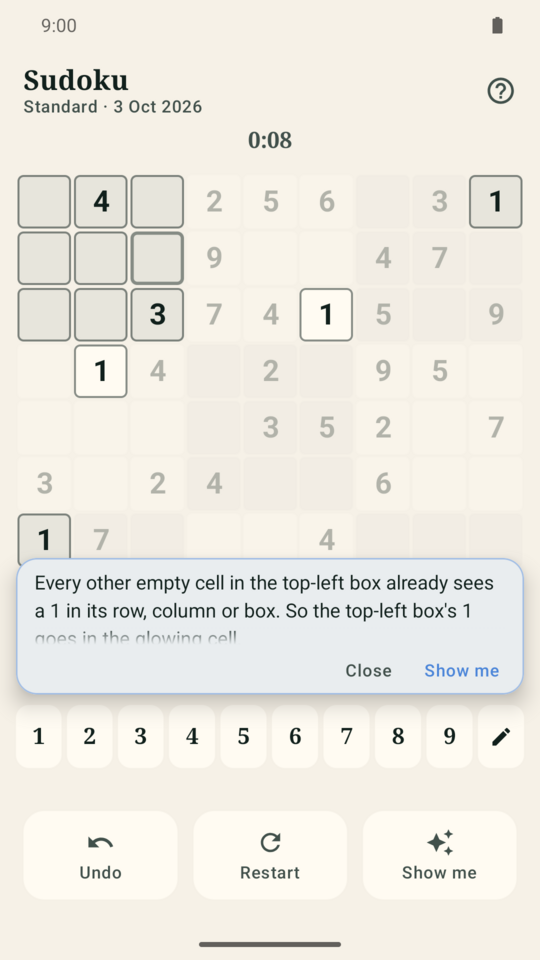
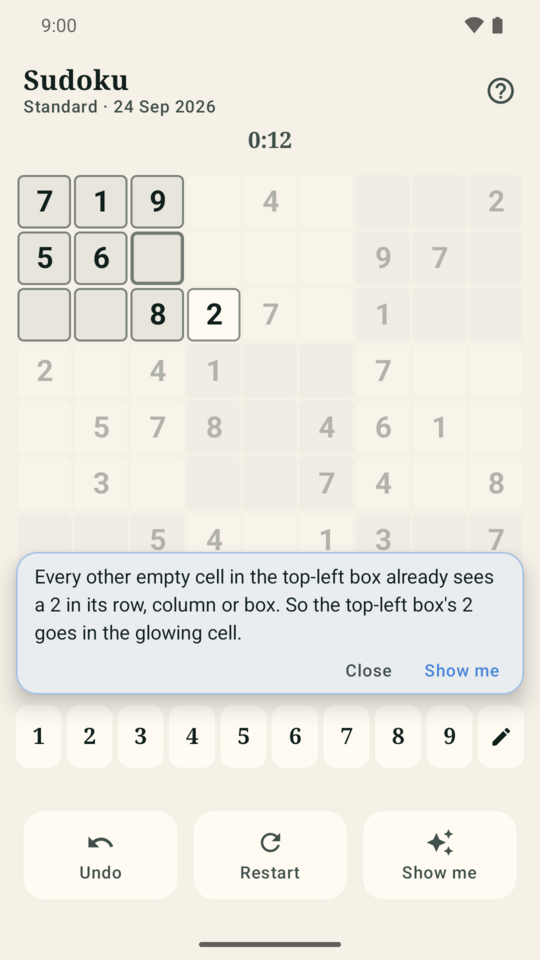
Screenshots: pin 24 Sep (hint popover fits) and refresh images

diff --git a/docs/play/LISTING.md b/docs/play/LISTING.md
@@ -57,7 +57,7 @@ Hand-built puzzle generators, proven boards and a calm, uncluttered design. Come
 | Phone screenshots | `screenshots/1-home.png` ... `5-snap.png` | 1080x1920, 9:16 (the first set was 2:1, which Play also accepted). The emulator's own 1080x2400 is over 2:1 |
 | Tablet screenshots (7-inch and 10-inch) | the same five | Both slots are marked required in the Console, so the phone shots are reused. The app is portrait-only, so a tablet shows the phone layout |
 
-The screenshots are emulator captures made by `tools/screenshots/capture.sh` (`wm size 1080x1920`, a clean install, the date pinned to 3 Oct 2026, demo-mode
+The screenshots are emulator captures made by `tools/screenshots/capture.sh` (`wm size 1080x1920`, a clean install, the date pinned to 24 Sep 2026, demo-mode
 status bar: 9:00, no notifications). Run the **Update screenshots** workflow (Actions, manual): it captures, uploads to the listing with `tools/screenshots/upload-play.py` (the service account needs "Manage store presence"; Google reviews the change and the live listing keeps the old images meanwhile) and opens a PR for the `docs/` images, which makes them part of the same "recapture when
 the look changes" duty as `docs/screenshots/`. The 7-inch and 10-inch tablet slots were filled with the same five.
 
